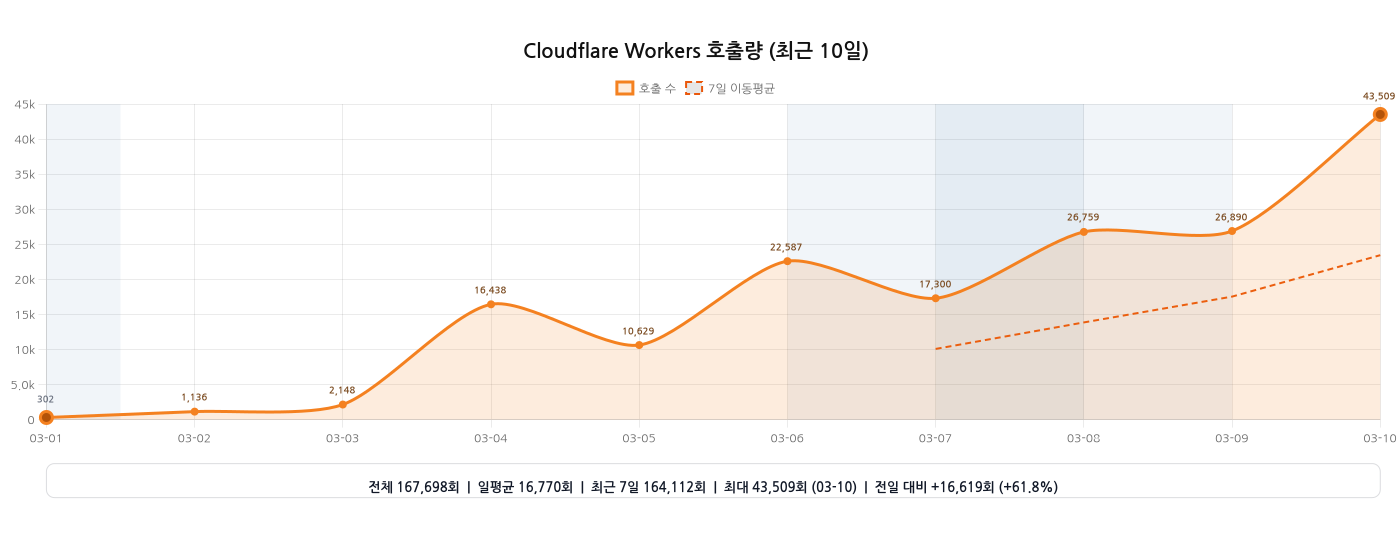
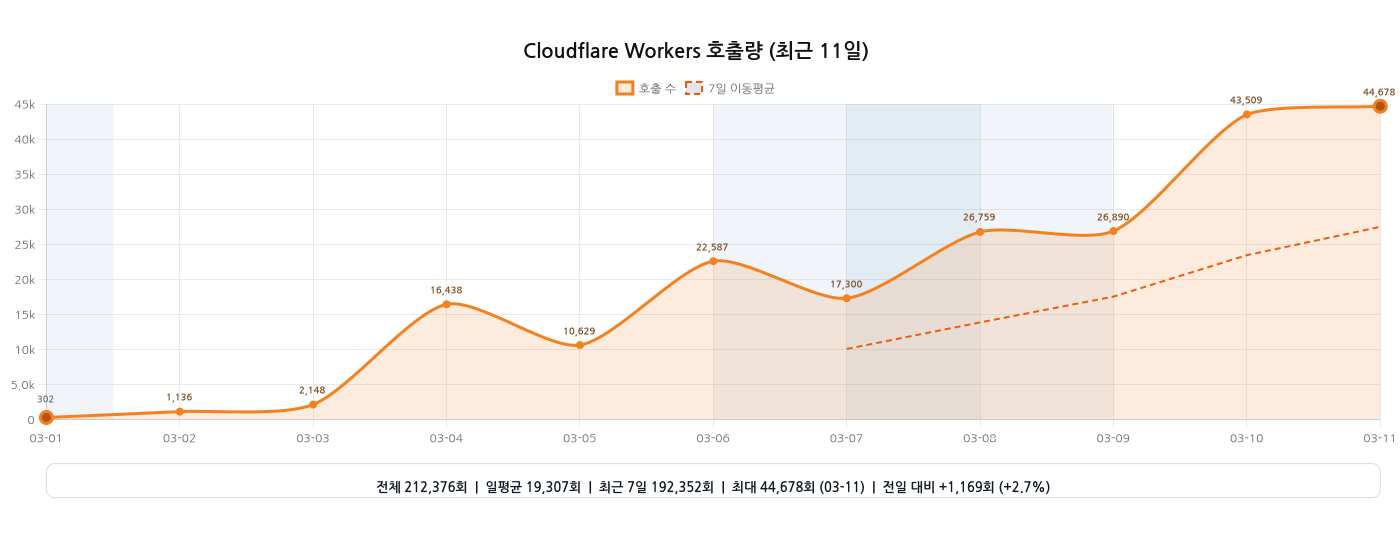
chore: 워커 호출량 그래프 자동 갱신

diff --git a/README.md b/README.md
@@ -18,11 +18,11 @@
 [![Coverage](https://github.com/hmmhmmhm/daiso-mcp/actions/workflows/coverage.yml/badge.svg?branch=main)](https://github.com/hmmhmmhm/daiso-mcp/actions/workflows/coverage.yml)
 
 <!-- WORKERS_INVOCATIONS_CHART:START -->
-<h3>Cloudflare Workers 호출량 (2026-03-01 ~ 2026-03-10, 10일)</h3>
+<h3>Cloudflare Workers 호출량 (2026-03-01 ~ 2026-03-11, 11일)</h3>
 
-<img src="./assets/analytics/workers-invocations.png?v=2026-03-11T00:41:38.143Z" alt="Cloudflare Workers 호출량 그래프 (2026-03-01 ~ 2026-03-10)" width="100%">
+<img src="./assets/analytics/workers-invocations.png?v=2026-03-11T15:36:05.340Z" alt="Cloudflare Workers 호출량 그래프 (2026-03-01 ~ 2026-03-11)" width="100%">
 
-<sub>기준 워커: <code>daiso-mcp</code> · 마지막 갱신: 2026-03-11 09:41 KST</sub>
+<sub>기준 워커: <code>daiso-mcp</code> · 마지막 갱신: 2026-03-12 00:36 KST</sub>
 
 <!-- WORKERS_INVOCATIONS_CHART:END -->
 
